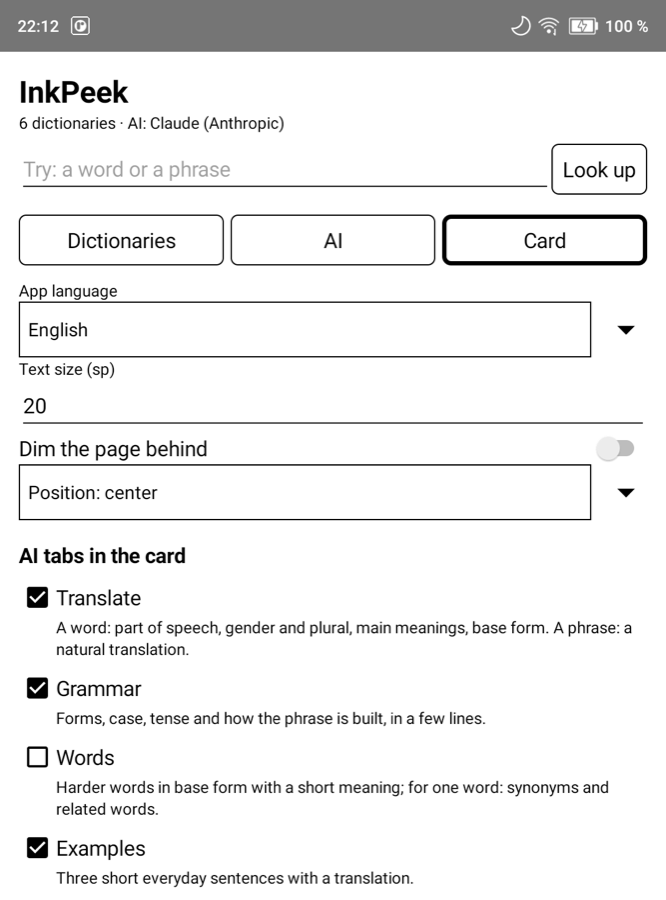
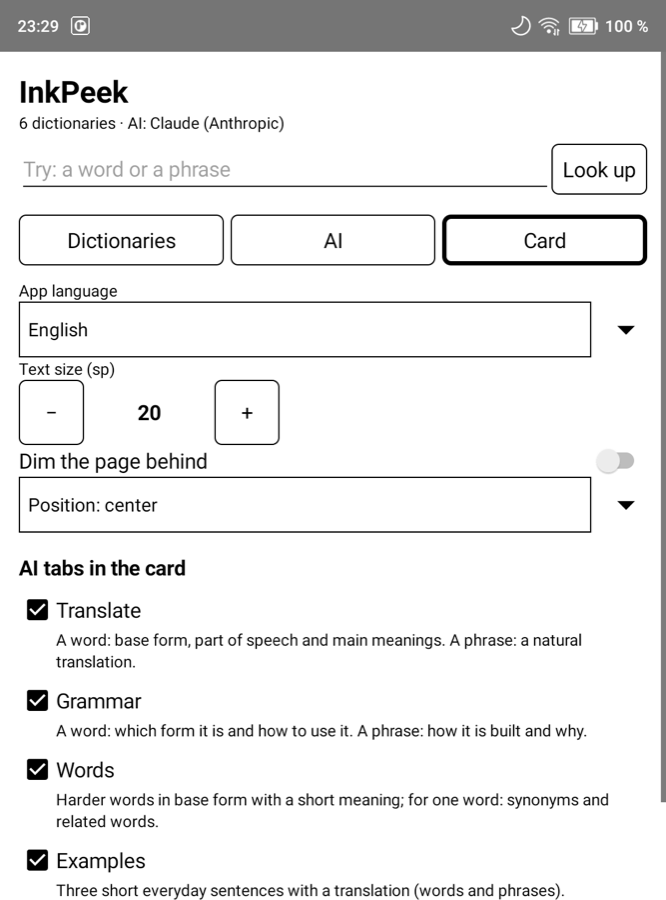
README: examples first, FBReader setup in words, KOReader via dictionaries.lua
Neutral tab descriptions in settings (no gender/case wording); new gloss and
settings screenshots; unused images removed.

diff --git a/README.md b/README.md
@@ -2,54 +2,88 @@
 
 # InkPeek
 
-A pop-up dictionary with an AI tutor for Android e-ink readers.
+**Read books in a language you are learning without leaving the page.**
 
-Select a word in your reading app and a calm, high-contrast card opens over the page: entries from your own
-StarDict dictionaries, and tabs that ask an AI to translate in context, explain the grammar, list the harder words or
-give examples. Close the card and you are on the same page.
+Tap a word or select a sentence in your e-book reader. A calm black-and-white card opens over the page with the
+dictionary entry, a translation that fits the context, and short explanations from an AI tutor. Close the card and
+you are back on the same line.
 
-<p align="center">
-  <img src="docs/img/card-dictionary.png" width="240" alt="Dictionary tab over a page in FBReader">
-  <img src="docs/img/card-translate-word.png" width="240" alt="Translate tab for a word">
-  <img src="docs/img/card-grammar.png" width="240" alt="Grammar tab for a sentence">
-</p>
-<p align="center">
-  <img src="docs/img/card-translate-phrase.png" width="240" alt="A selected sentence opens on Translate">
-  <img src="docs/img/settings-card.png" width="240" alt="Card settings: choose the AI tabs">
-  <img src="docs/img/settings-models.png" width="240" alt="OpenRouter models: free only">
-</p>
-<p align="center"><sub>Onyx Boox Go 6, FBReader, Franz Kafka «Die Verwandlung» (public domain).</sub></p>
+Made for Android e-ink readers (Onyx Boox and others); works on any Android device.
 
-## What it does
-- **Dictionary tab** — your StarDict dictionaries, one per screen, ◀ ▶ to page between them. Inflected forms are
-  found through the dictionary's own forms list (`Häuser` → `Haus`), and the base form is then looked up in every
-  other dictionary too.
-- **AI tabs** — Translate, Grammar, Words, Examples, Explain. Each tab asks once and keeps the answer. Short answers
-  with light formatting (bold words from the text, translations in italics). Choose the tabs in settings.
-- **Phrases** — select a sentence and the card opens on Translate (configurable).
-- **Built for e-ink** — black on white, large text, no animations, no colors.
-- **Languages** — the UI follows the system language (English, Russian, German); answers come in the language you
-  choose.
+## What you can do
 
-## Works with your reader
-InkPeek answers the common **ColorDict intent**, the same one used by ColorDict and GoldenDict, so readers that can
-call an external dictionary open it as a pop-up.
+<table>
+<tr>
+<td width="33%"><img src="docs/img/card-dictionary.png" alt="Dictionary entry for a word over the page"></td>
+<td width="33%"><img src="docs/img/card-phrase.png" alt="A paragraph translated in place"></td>
+<td width="33%"><img src="docs/img/card-grammar.png" alt="Grammar of a sentence explained"></td>
+</tr>
+<tr>
+<td valign="top"><b>Look up a word.</b> Entries from your own dictionaries, offline. Inflected forms find their base
+form: <i>Träumen</i> → <i>Traum</i>.</td>
+<td valign="top"><b>Translate a sentence or a paragraph.</b> A natural translation, not word by word, in the language
+you choose.</td>
+<td valign="top"><b>Understand why it is said this way.</b> Word order, forms and the rule behind them, with the words
+from the text in bold.</td>
+</tr>
+<tr>
+<td width="33%"><img src="docs/img/card-translate-word.png" alt="A word translated in context"></td>
+<td width="33%"><img src="docs/img/card-gloss.png" alt="Word-by-word gloss of a sentence, offline"></td>
+<td width="33%"><img src="docs/img/settings-card.png" alt="Choose the AI tabs"></td>
+</tr>
+<tr>
+<td valign="top"><b>Get the meaning that fits here.</b> Base form, part of speech and the main meanings; more tabs
+give synonyms, examples and nuances.</td>
+<td valign="top"><b>No internet? Still useful.</b> A selected sentence gets a word-by-word gloss from your
+dictionaries. Tap a word to open its full entry.</td>
+<td valign="top"><b>Keep only what you use.</b> Turn AI tabs on or off. Use Claude, OpenAI or OpenRouter (it has free
+models).</td>
+</tr>
+</table>
 
-### FBReader (free version is enough)
-Settings → **Dictionary & translator**: set both **Look up single word in** and **Translate phrases via** to
-**ColorDict 3**. (The default phrase translator is Google Translate, which is a Premium feature — that is the
-"buy Premium" screen you may see.)
+<p align="center"><sub>Onyx Boox Go 6, FBReader, Franz Kafka «Die Verwandlung» (public domain). Answers here are in
+English or Russian: you choose the answer language.</sub></p>
 
-<p align="center"><img src="docs/img/fbreader-settings.png" width="260" alt="FBReader: Dictionary & translator → ColorDict 3 for words and phrases"></p>
+## Quick start
+1. **Install** the APK from [Releases](https://github.com/kafeg/inkpeek/releases) and open InkPeek. Allow access to
+   files when it asks.
+2. **Add a dictionary:** Dictionaries → **Get dictionaries** → pick a language pair (for example German → Russian).
+3. **Optional — AI:** choose a provider on the **AI** tab and paste your API key.
+4. **Connect your reader** (below). In FBReader this is two settings.
 
-| a word | a phrase or a sentence |
+## Connect your reader
+
+### FBReader (the free version is enough)
+Open **Settings → Dictionary & translator** and set **both**:
+- **Look up single word in** → **ColorDict 3**
+- **Translate phrases via** → **ColorDict 3**
+
+The default phrase translator is Google Translate, a Premium feature: if you see "buy Premium" when you select a
+phrase, this setting is the fix.
+
+| a word | a sentence or a paragraph |
 |---|---|
-| Long-tap the word, then the **translate** button (文A) in the selection bar. | Long-tap, drag the handle over the phrase, then **translate** (文A). |
+| Long-tap the word, then the **translate** button (文A). | Long-tap, drag the handle to the end of the text, then **translate** (文A). |
 | <img src="docs/img/fbreader-word-select.png" width="240"> <img src="docs/img/card-dictionary.png" width="240"> | <img src="docs/img/fbreader-phrase-select.png" width="240"> <img src="docs/img/card-phrase.png" width="240"> |
-| The card opens on the dictionary; the AI tabs are one tap away. | The card opens on Translate; up to about a page of text is sent. |
+| The card opens on the dictionary. | The card opens on Translate (or on the gloss, without AI). |
 
-Tip: FBReader → Settings → Dictionary → long tap action **"select single word, release to open dictionary"** makes
-a word a single gesture.
+Tip: in **Settings → Dictionary**, set the long-tap action to **select single word, release to open dictionary**.
+Then one gesture opens a word.
+
+### KOReader
+KOReader calls only the dictionary apps it knows. Add InkPeek to the list with one file,
+`/sdcard/koreader/dictionaries.lua`:
+
+```lua
+return {
+    { "InkPeek", "InkPeek", false, "io.github.kafeg.inkpeek", "text" },
+}
+```
+
+Restart KOReader. Then **Settings → Dictionary settings → Use external dictionary**, and **Dictionary: InkPeek**.
+A word or a selection now opens in InkPeek. This file replaces KOReader's built-in list of external dictionaries;
+copy other entries from
+[device.lua](https://github.com/koreader/koreader/blob/master/frontend/device/android/device.lua) if you need them.
 
 ### Other readers
 | reader | how |
@@ -58,35 +92,35 @@ a word a single gesture.
 | Moon+ Reader | Dictionary → **ColorDict** |
 | any app | text selection menu → **Look up in InkPeek**, or Share → InkPeek |
 
-If another dictionary app answers the same intent, Android asks once which one to use: choose InkPeek → Always.
+If another dictionary app answers the same request, Android asks which one to use: choose InkPeek → Always.
 
-<details><summary>Protocol details</summary>
+## How it works
 
-| intent | text extra | notes |
-|---|---|---|
-| `colordict.intent.action.SEARCH` | `EXTRA_QUERY` | `EXTRA_GRAVITY` and `EXTRA_HEIGHT` are hints; `EXTRA_FULLSCREEN` is ignored (some readers send `true` when their status bar is hidden) |
-| `android.intent.action.PROCESS_TEXT` | `EXTRA_PROCESS_TEXT` | system selection menu |
-| `android.intent.action.SEND` (`text/plain`) | `EXTRA_TEXT` | Share |
+### The card
+- **Dictionary** comes first. For a word: entries from your dictionaries, one dictionary per screen, ◀ ▶ to page
+  between them; dictionaries in your answer language come first. For a sentence: the word-by-word gloss.
+- **AI tabs:** Translate, Grammar, Words, Examples, Explain. A tab asks the AI only when you open it, and keeps the
+  answer while the card is open. Switching tabs does not ask again.
+- What you selected decides what the tabs do: one word, a short phrase (up to 8 words), or a passage (longer, or more
+  than one sentence; Examples is hidden for a passage).
+- A selected sentence opens on Translate when AI is on (you can turn this off).
+- Built for e-ink: black on white, large text, no animations. Text size, position and dimming are in settings.
 
-Test from a computer: `adb shell am start -a colordict.intent.action.SEARCH --es EXTRA_QUERY Haus`
-</details>
+### Dictionaries
+Everything lives in one folder: **`/sdcard/InkPeek/`** — `dicts/` (one folder per dictionary) and `keys/`.
 
-## Dictionaries
-Everything lives in one folder on the device: **`/sdcard/InkPeek/`** — `dicts/` (one folder per dictionary) and
-`keys/`. InkPeek needs the "all files" permission for it (the app asks).
-
-- **Get dictionaries** — live lists of [Wiktionary dictionaries](https://github.com/xxyzz/wiktionary_stardict)
-  (hundreds of language pairs) and [FreeDict](https://freedict.org); filter by language pair, tap to download.
-- **Import file** — StarDict as `.zip`, `.tar`, `.tar.gz`, `.tar.bz2`, `.tar.xz`, `.tar.zst`, or the loose
+- **Get dictionaries:** live lists of [Wiktionary dictionaries](https://github.com/xxyzz/wiktionary_stardict)
+  (hundreds of language pairs) and [FreeDict](https://freedict.org). Filter by language pair, tap to download.
+- **Import file:** StarDict as `.zip`, `.tar`, `.tar.gz`, `.tar.bz2`, `.tar.xz`, `.tar.zst`, or loose
   `.ifo` / `.idx` / `.dict(.dz)` / `.syn` files.
 - Or copy a StarDict folder into `/sdcard/InkPeek/dicts/`.
 
-InkPeek builds its own index for each dictionary once, in the background (the settings screen shows the progress),
-so badly sorted upstream indexes still work; `.dict.dz` is read in place.
+InkPeek builds its own index for each dictionary once, in the background (settings show the progress). Badly sorted
+upstream indexes still work, and `.dict.dz` is read in place, without unpacking.
 
-## AI
-Providers: **Claude** (Anthropic), **OpenAI**, **OpenRouter** (hundreds of models, some free; the model list has a
-filter, "free only", a maker filter and sorting). Put the key in settings, or into a file the app reads:
+### AI
+Providers: **Claude** (Anthropic), **OpenAI**, **OpenRouter** (hundreds of models, some free). The model list has a
+search, a maker filter, "free only" and sorting. Put the key in settings, or in a file:
 
 ```
 /sdcard/InkPeek/keys/anthropic.key
@@ -95,27 +129,31 @@ filter, "free only", a maker filter and sorting). Put the key in settings, or in
 ```
 
 ```bash
-adb shell mkdir -p /sdcard/InkPeek/keys
 adb push openrouter.txt /sdcard/InkPeek/keys/openrouter.key
 ```
 
-Only the selected text and the tab's prompt are sent, only when you open an AI tab (or select a phrase with
-"phrases: AI at once" on). No telemetry.
+**Privacy:** only the selected text and the tab's request go to the provider you chose, only when you open an AI tab
+(or select a phrase with "phrases: AI at once" on). No telemetry, no accounts.
 
-## Install
-Download the APK from [Releases](https://github.com/kafeg/inkpeek/releases) — built and signed by
-[GitHub Actions](.github/workflows/release.yml) from the tagged commit; a `.sha256` file is attached.
+### Protocol
+| intent | text extra | notes |
+|---|---|---|
+| `colordict.intent.action.SEARCH` | `EXTRA_QUERY` | the ColorDict / GoldenDict protocol; `EXTRA_GRAVITY` and `EXTRA_HEIGHT` are hints, `EXTRA_FULLSCREEN` is ignored |
+| `android.intent.action.PROCESS_TEXT` | `EXTRA_PROCESS_TEXT` | system selection menu, KOReader |
+| `android.intent.action.SEND` (`text/plain`) | `EXTRA_TEXT` | Share |
 
-```bash
-adb install inkpeek-v0.2.0.apk
-```
+Test from a computer: `adb shell am start -a colordict.intent.action.SEARCH --es EXTRA_QUERY Haus`
 
-## Build
+## Install and build
+Release APKs are built and signed by [GitHub Actions](.github/workflows/release.yml) from the tagged commit; each has
+a `.sha256` file.
+
 ```bash
 ./gradlew testDebugUnitTest assembleDebug
 adb install -r app/build/outputs/apk/debug/app-debug.apk
 ```
-Kotlin, Android Views, minSdk 26. See [docs/spec.md](docs/spec.md).
+
+Kotlin, Android Views, minSdk 26. Design notes: [docs/spec.md](docs/spec.md).
 
 ## License
 MIT. Dictionaries you download keep their own licenses (Wiktionary: CC BY-SA; FreeDict: see each dictionary).
